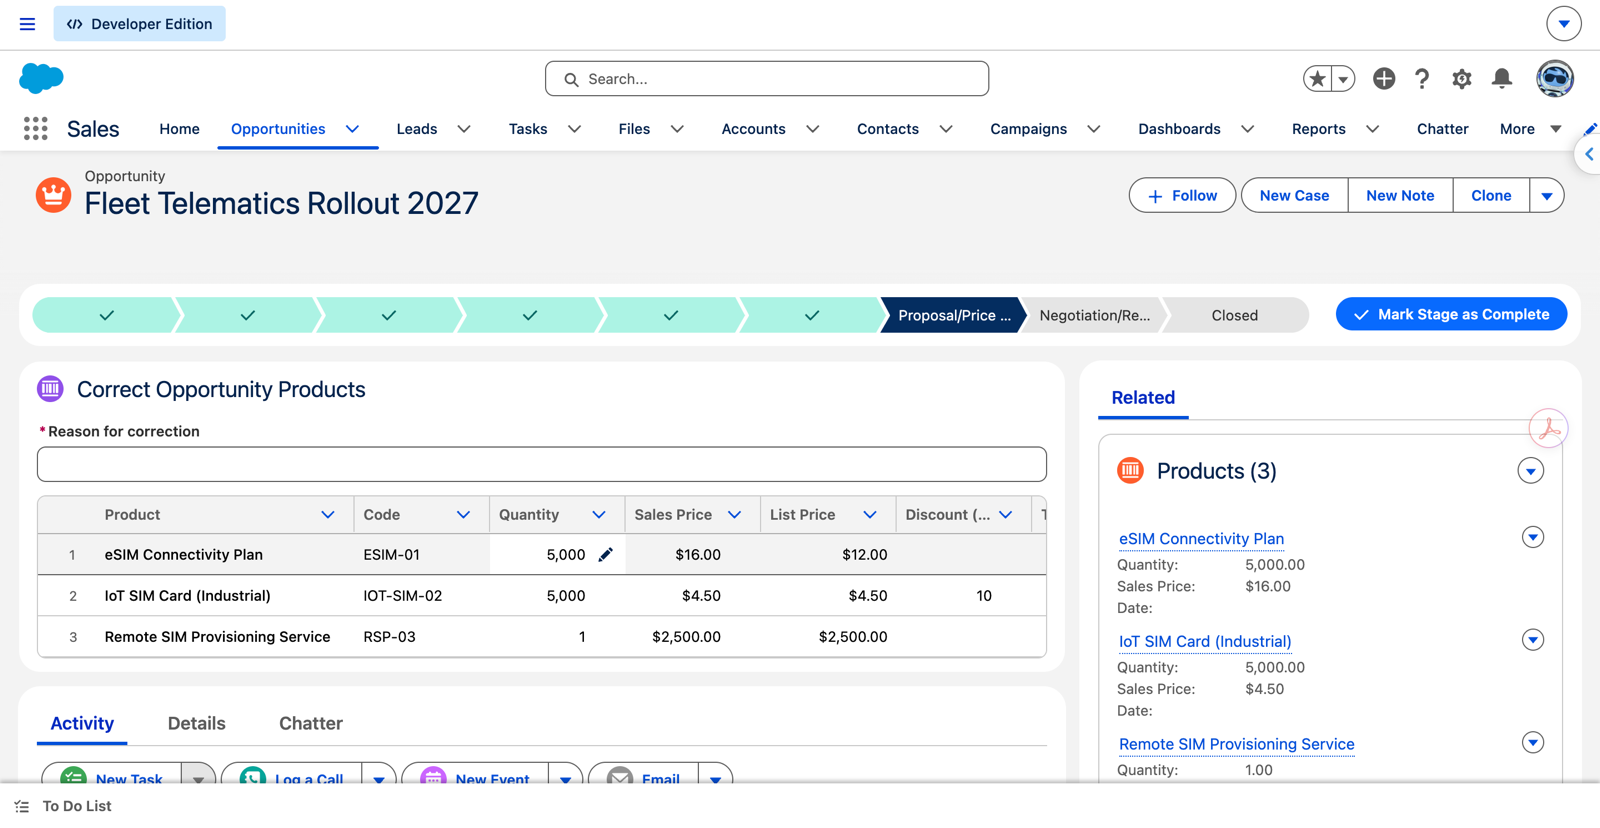
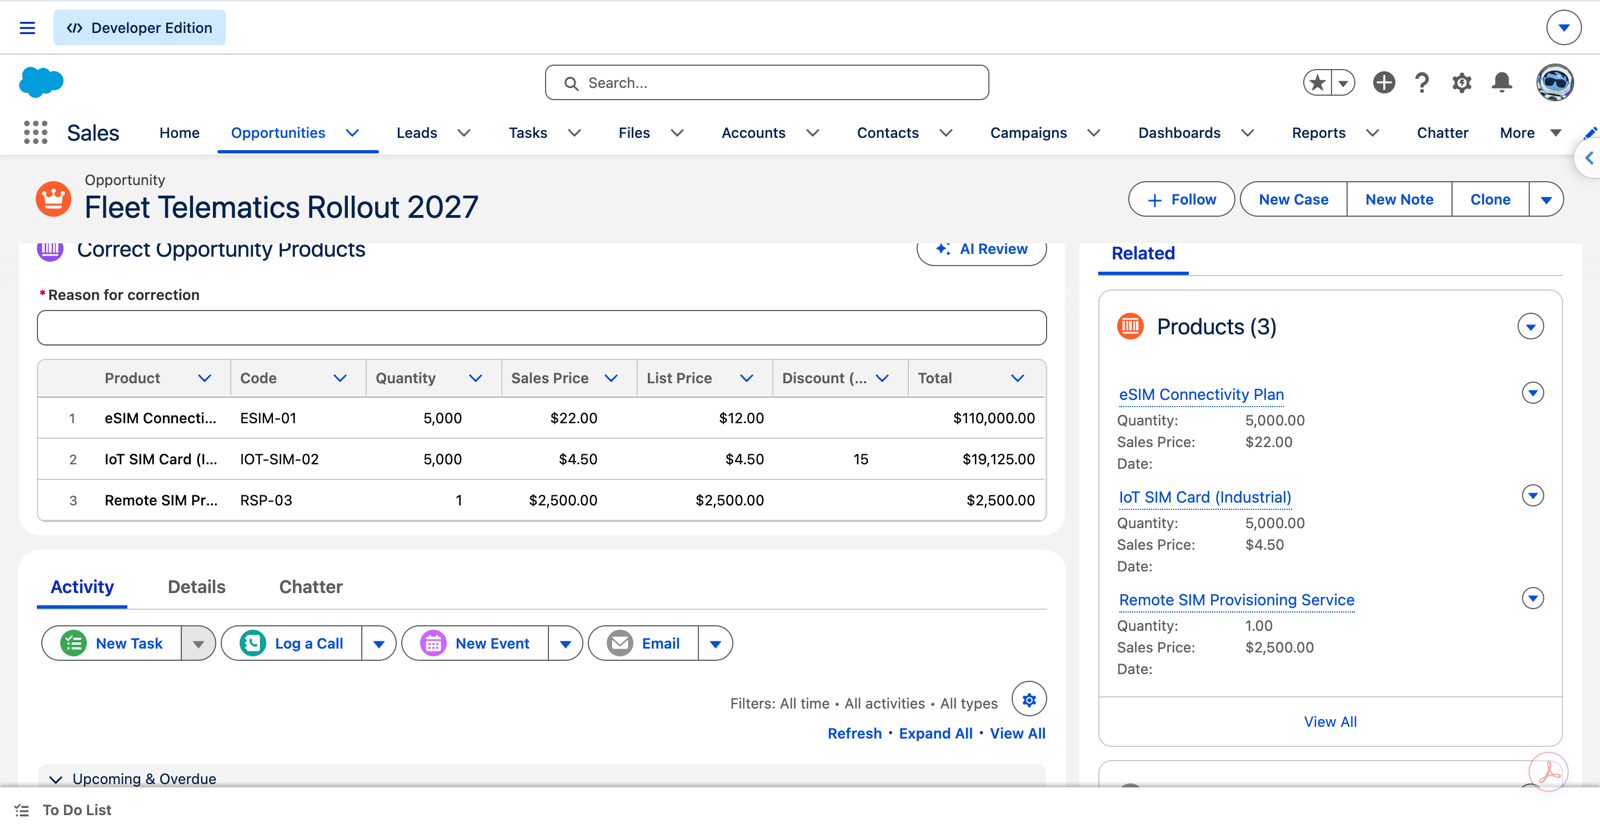
Add AI Review screenshot and updated page screenshot

diff --git a/README.md b/README.md
@@ -26,7 +26,7 @@ So I built a small tool for it. It sits on the Opportunity page, lets you correc
 
 This is what it said about my demo opportunity after I raised the eSIM price to $22 (list price $12):
 
-> eSIM Connectivity Plan (ESIM-01): The sales price is 83% above the list price, which could lead to approval delays and revenue recognition issues. Please verify the sales price or consider applying a discount to align more closely with the list price.
+![AI product health review](docs/images/05-ai-review.png)
 
 **Security.** All queries and saves run in user mode, so the tool only shows and changes what the user is allowed to. Access comes from one permission set.
 
